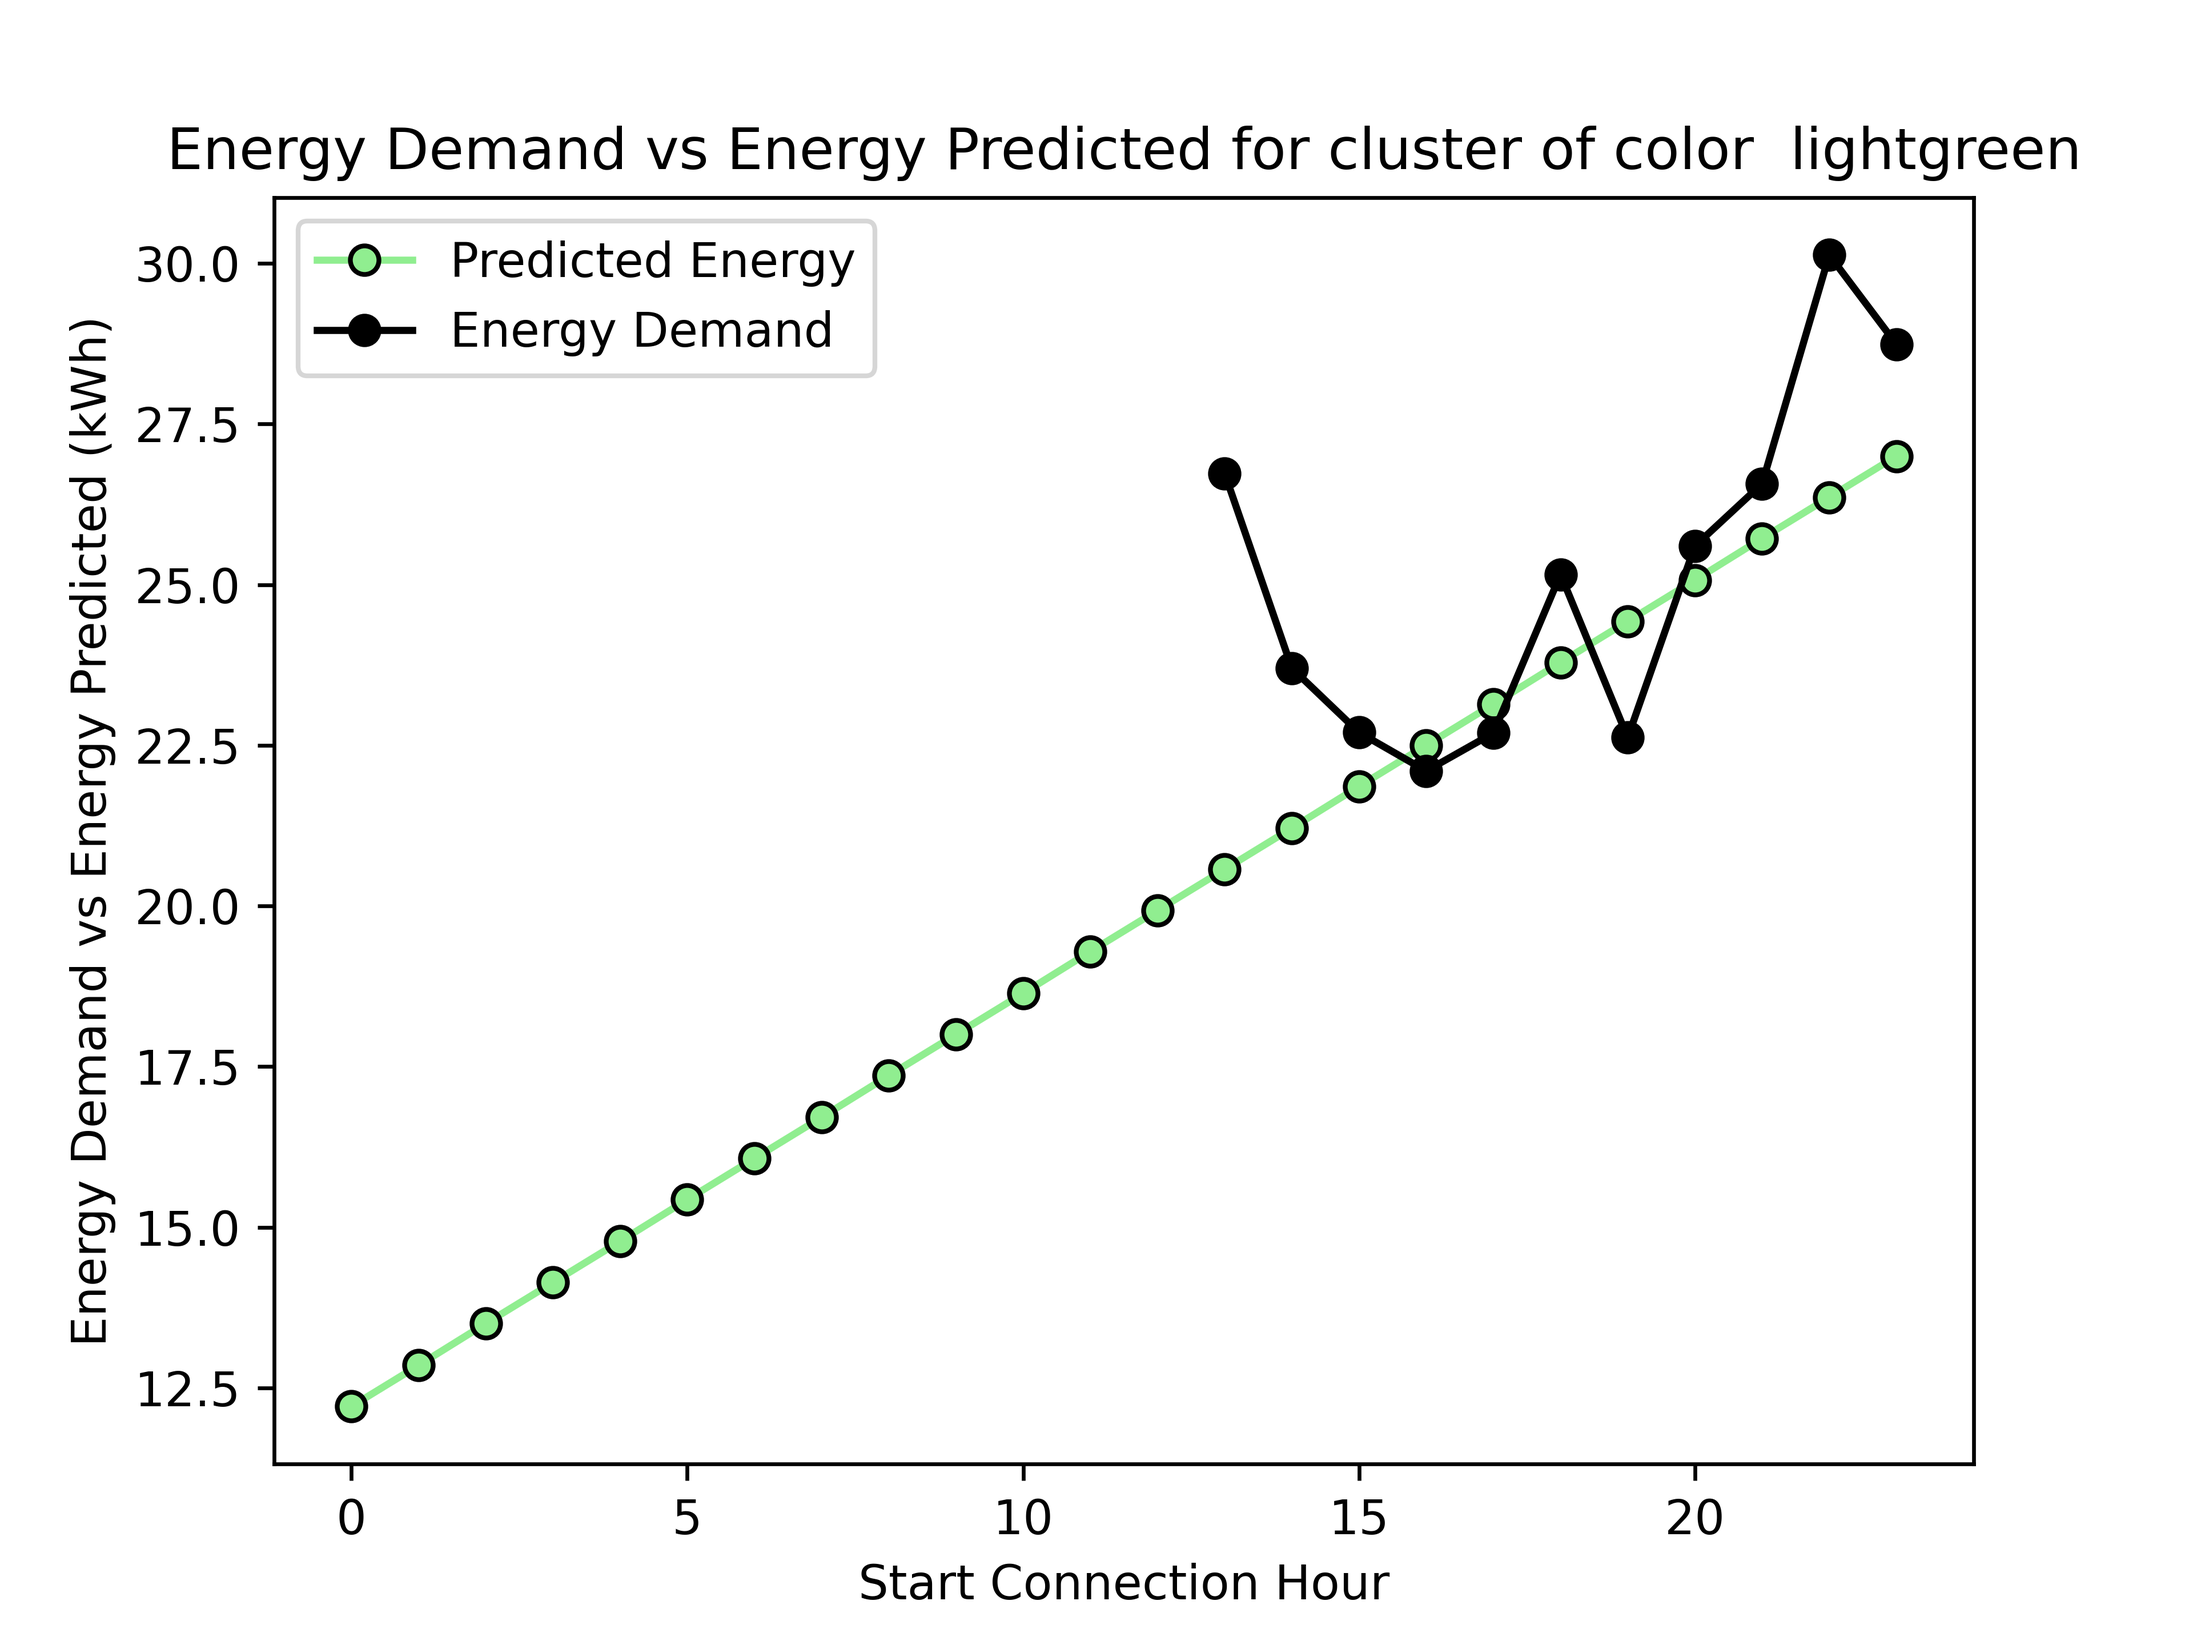
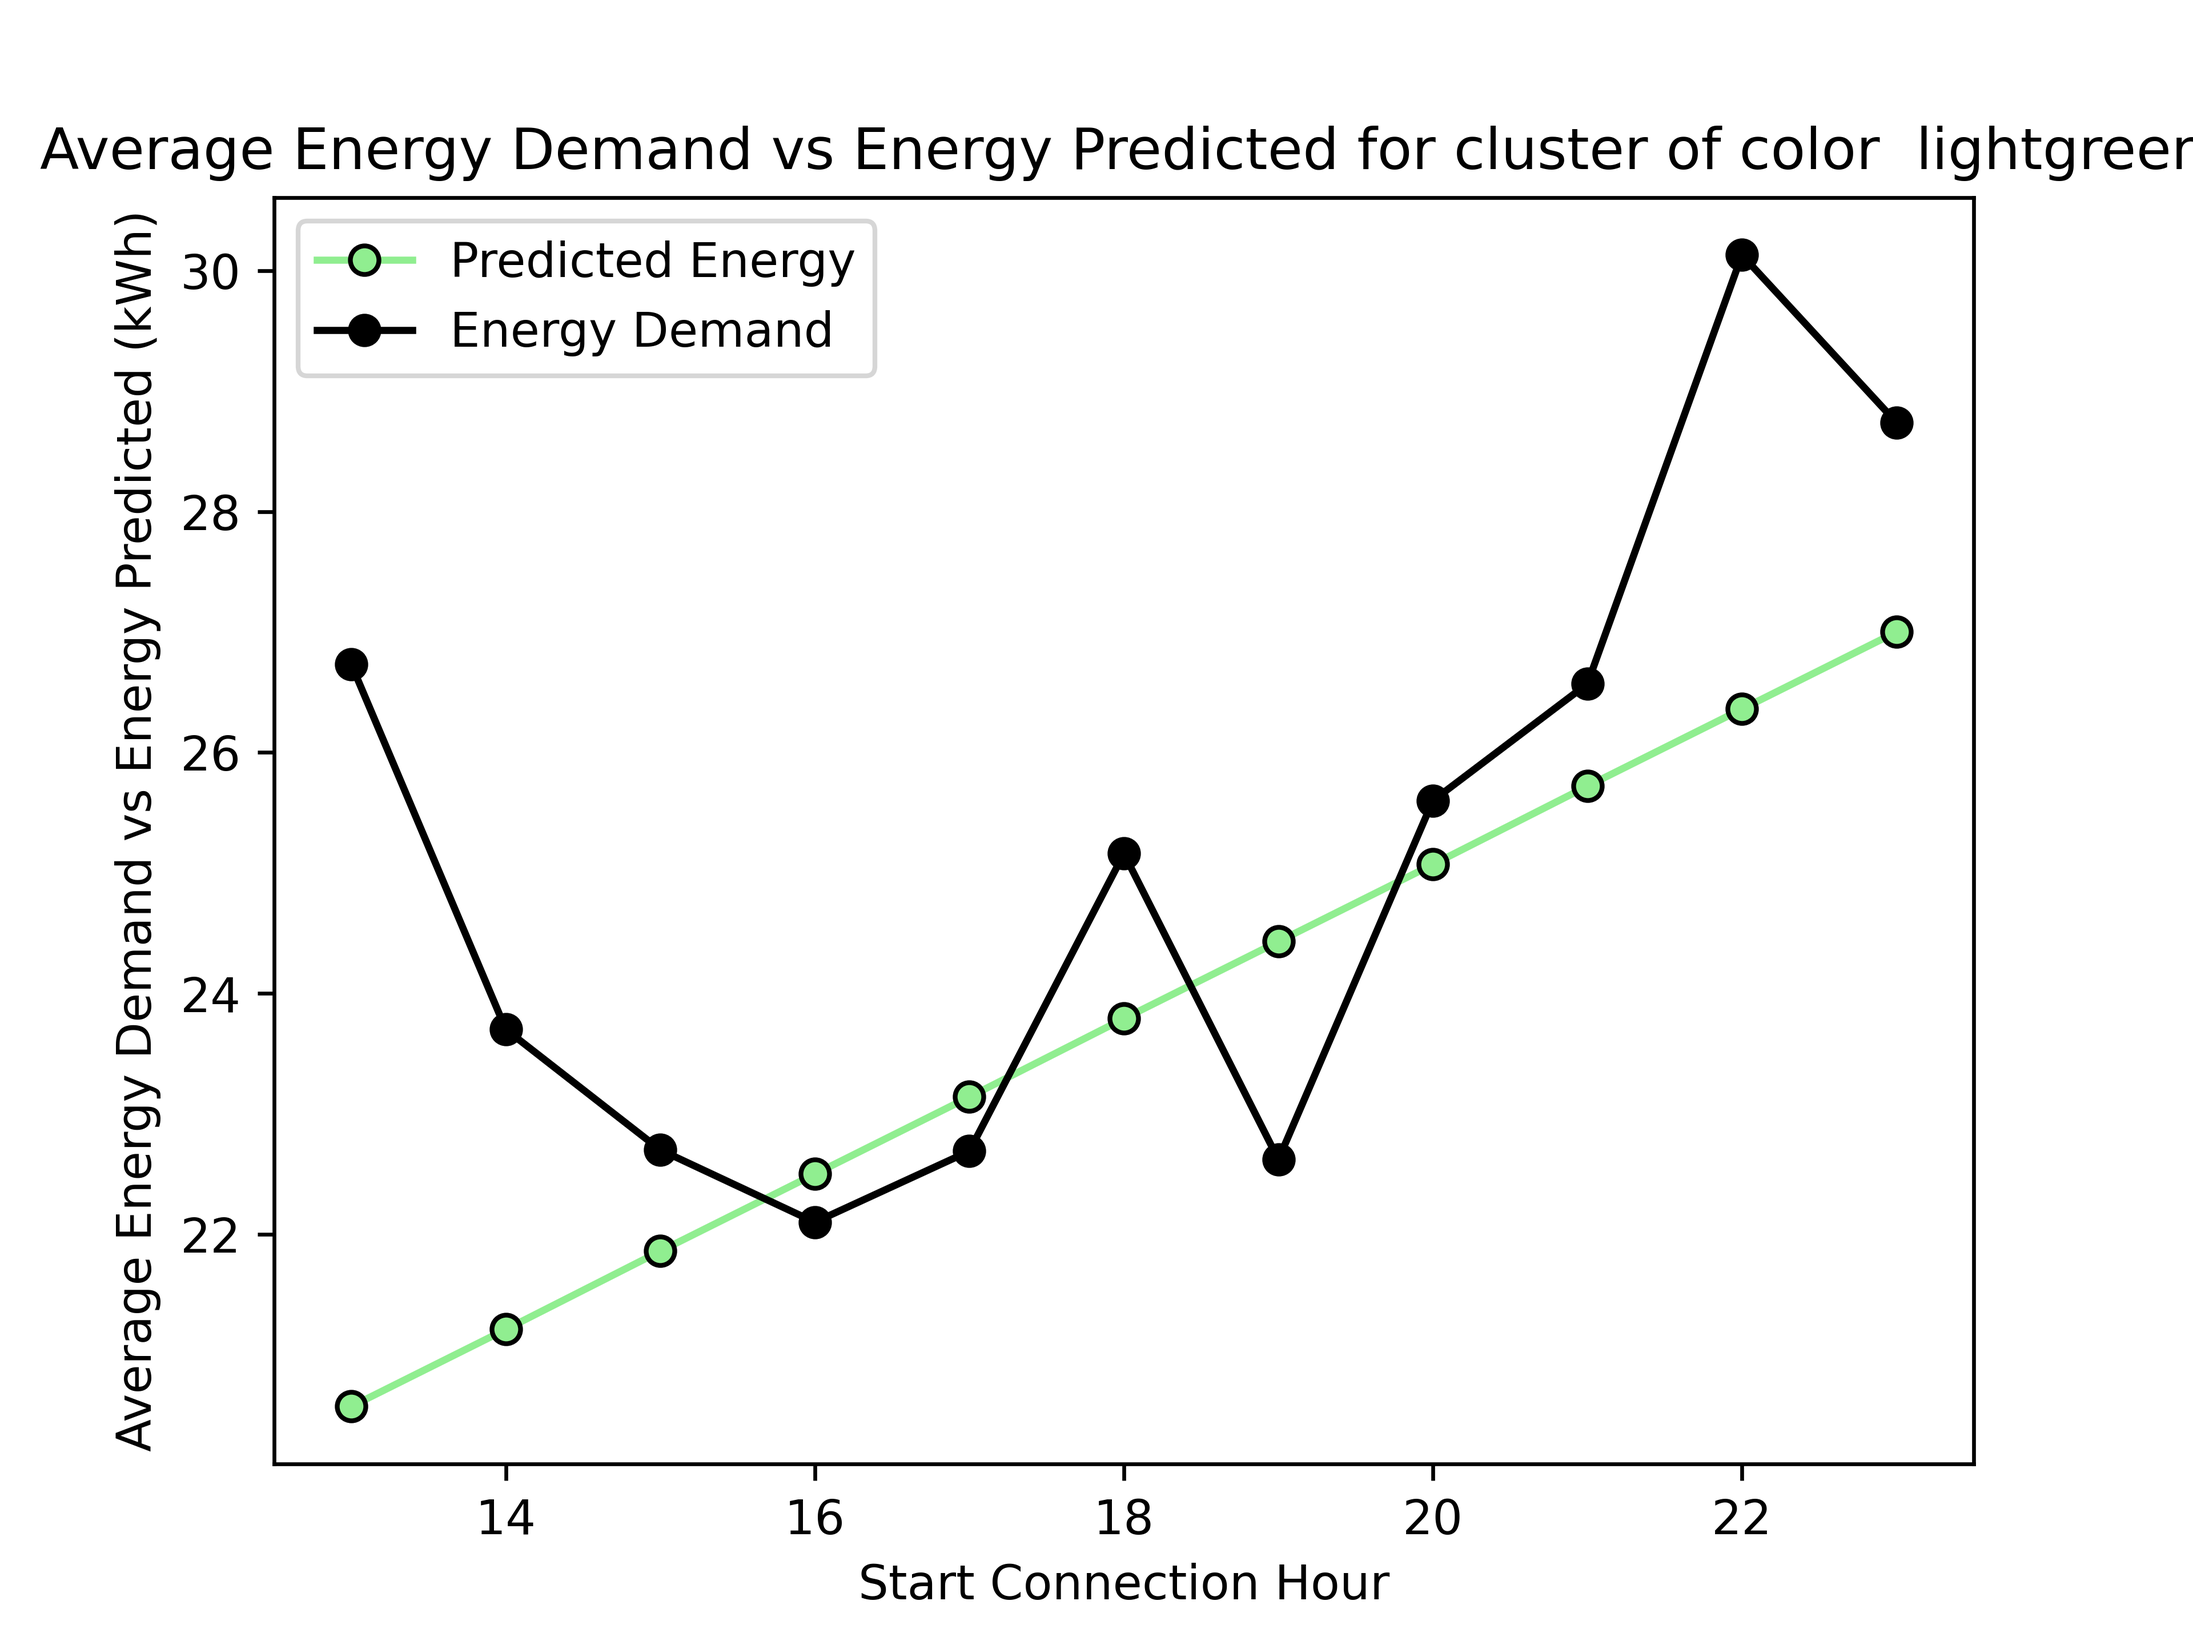
Added energy demand vs energy predicted graphs for GMM clusters.

diff --git a/lin_regression_energy.py b/lin_regression_energy.py
@@ -6,7 +6,6 @@ import pandas as pd
 from reading_data import data_open_trans
 import matplotlib.patheffects as pe
 
-
 # from sklearn.model_selection import cross_val_score
 
 df_open_transactions = data_open_trans()
@@ -64,12 +63,13 @@ for k in range(0, 4):
     y = data['TotalEnergy'].to_numpy()
     reg = LinearRegression().fit(x, y)  # only using start connection hour as input ||
     y_pred = reg.predict(x)
-    energy_predicted = [round(float(reg.predict(np.array([[hour]]))), 2) for hour in range(24)]
+    energy_predicted = [round(float(reg.predict(np.array([[hour]]))), 2) for hour in range(min(data['Start Integer Hour']), max(data['Start Integer Hour']) + 1)]
     total_energy_used_per_hour = pd.DataFrame(data.groupby(['Start Integer Hour'], as_index=False)['TotalEnergy']
                                               .mean().round(2))
     total_energy_used_per_hour.columns = ['Connection Start Hour', 'Total Energy Demand']
     print(total_energy_used_per_hour)
-    start_hours = range(0, 24)
+    # start_hours = range(0, 24)
+    start_hours = range(min(data['Start Integer Hour']), max(data['Start Integer Hour']) + 1)
     # range_demand = range(min(data['Start Integer Hour']), max(data['Start Integer Hour']) + 1)
 
     energy_per_start_hour = pd.DataFrame(list(zip(start_hours, energy_predicted)),
@@ -111,12 +111,12 @@ for k in range(0, 4):
     plt.plot(x1, y1, label="Predicted Energy", color=color[k], mec='k', marker='o')
     plt.plot(x2, y2, label="Energy Demand", color='k', marker='o')
     plt.xlabel('Start Connection Hour')
-    plt.ylabel('Energy Demand vs Energy Predicted (kWh)')
+    plt.ylabel('Average Energy Demand vs Energy Predicted (kWh)')
 
-    plt.title('Energy Demand vs Energy Predicted for cluster of color  ' + str(color[k]))
+    plt.title('Average Energy Demand vs Energy Predicted for cluster of color  ' + str(color[k]))
 
     plt.legend()
-    plt.savefig('Energy-demand-vs-predicted color '+str(color[k]), dpi=600)
+    plt.savefig('Energy-demand-vs-predicted color ' + str(color[k]), dpi=600)
     plt.show()
 
     # print(hours_per_start_hour.shape)

diff --git a/peak_distribution.py b/peak_distribution.py
@@ -1,5 +1,10 @@
 import pandas as pd
 from reading_data import data_open_trans
+from tabulate import tabulate
+from IPython.display import display
+import matplotlib.pyplot as plt
+
+pd.options.display.width = None
 
 df_open_transactions = data_open_trans()
 
@@ -151,8 +156,35 @@ def determine_peak_distribution(transaction_stop_time, transaction_start_time):
 determine_peak_distribution(time_stop[27], time_start[27])
 # date_year['Peaks_Python'] = date_year.apply(lambda row: determine_peak(row))
 
-df_open_transactions['On-Off-Mid-Distribution'] = \
+df_open_transactions['On-Off-Mid-Peak-Distribution'] = \
     df_open_transactions.apply(lambda x: determine_peak_distribution(x['UTCTransactionStop'], x['UTCTransactionStart']),
                                axis=1)
-print(df_open_transactions['ConnectedTime'])
+# print(tabulate(df_open_transactions['On-Off-Mid-Distribution'].head(10), headers='keys', tablefmt='psql',showindex=False))
 
+# with pd.option_context('display.max_rows', None, 'display.max_columns', None):  # more options can be specified also
+#     print(df_open_transactions[['ConnectedTime', 'On-Off-Mid-Distribution']])
+#
+df_1 = df_open_transactions[['ConnectedTime', 'On-Off-Mid-Peak-Distribution']].head(20)
+
+plt.axis('off')
+plt.axis('tight')
+plt.table(cellText=df_1.values, colLabels=df_1.columns,
+          cellLoc='center', colColours=['yellow','pink'],
+          loc='center')
+plt.title("Peak distribution", y=1)
+plt.axis('tight')
+plt.savefig("Peak distribution of connected time", dpi=600)
+plt.show()
+plt.close()
+
+# df_2 = df_open_transactions[['IdleTimeRatio']].head(20)
+# plt.axis('off')
+# plt.axis('tight')
+# plt.table(cellText=df_2.values.round(4), colLabels=df_2.columns,
+#           cellLoc='center', colColours=['yellow'],
+#           loc='center')
+# plt.title("Idle Time Ratio", y=1)
+# plt.axis('tight')
+# plt.savefig("Peak distribution of connected time", dpi=600)
+# plt.show()
+# plt.close()

diff --git a/gmm_clustering.py b/gmm_clustering.py
@@ -29,7 +29,7 @@ plt.xlabel('Start Connection Hour ')
 plt.ylabel('Total Hours Connected')
 plt.show()
 
-n_components = 9
+n_components = 4
 gmm = GaussianMixture(n_components=n_components, covariance_type='full', random_state=300140951).fit(data)
 
 labels = gmm.predict(data)
@@ -39,7 +39,7 @@ frame['cluster'] = labels
 frame.columns = ['Start Integer Hour_P', 'ConnectedTime', 'cluster']
 
 # plotting results
-color = ['lightgreen', 'yellow', 'deeppink', 'orange', 'magenta', 'pink', 'blue', 'grey', 'red']
+color = ['lightgreen', 'yellow', 'deeppink', 'orange', 'blue', 'pink', 'magenta', 'grey', 'red']
 marker_r = ["*", "+", "x", "3", ".", "o", "p", "D", "2"]
 for k in range(0, 9):
     data = frame[frame["cluster"] == k]
@@ -51,6 +51,7 @@ for k in range(0, 9):
 plt.title('GMM Visualization with ' + str(n_components) + ' clusters of charging sessions')
 plt.xlabel('Start Connection Hour ')
 plt.ylabel('Total Hours Connected')
+plt.savefig('Gmm visual with '+str(n_components), dpi=600)
 plt.show()
 
 

diff --git a/kmeans_plus_plus_clustering.py b/kmeans_plus_plus_clustering.py
@@ -34,7 +34,7 @@ plt.title('Start Time and Total Connected Time')
 plt.xlabel('Start Connection Hour ')
 plt.ylabel('Total Hours Connected')
 plt.show()
-n_clusters = 3  # determine number of clusters
+n_clusters = 4  # determine number of clusters
 kmeans = KMeans(n_clusters=n_clusters, init='k-means++', random_state=300140951).fit(data)
 labels = kmeans.labels_
 print(labels)
@@ -54,5 +54,5 @@ for k in range(0, 9):
 plt.title('K-Means++ Visualization with ' + str(n_clusters) + ' clusters')
 plt.xlabel('Start Connection Hour ')
 plt.ylabel('Total Hours Connected')
-plt.savefig('kmeans_plus_plus', dpi=600)
+plt.savefig('kmeans_plus_plus with '+str(n_clusters), dpi=600)
 plt.show()
